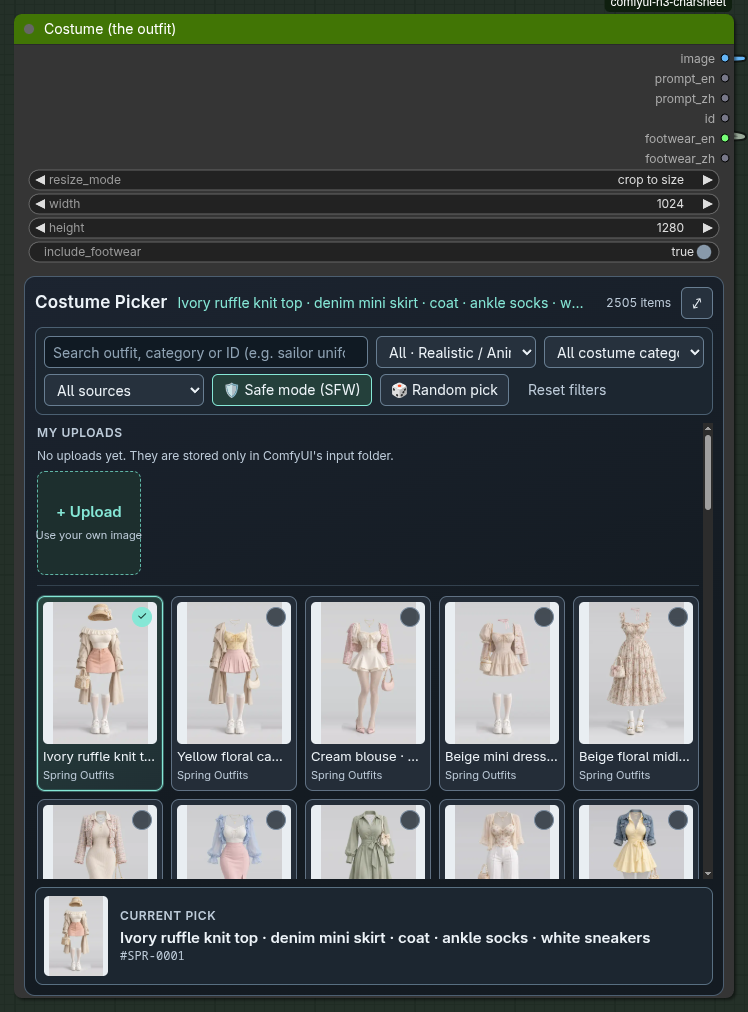
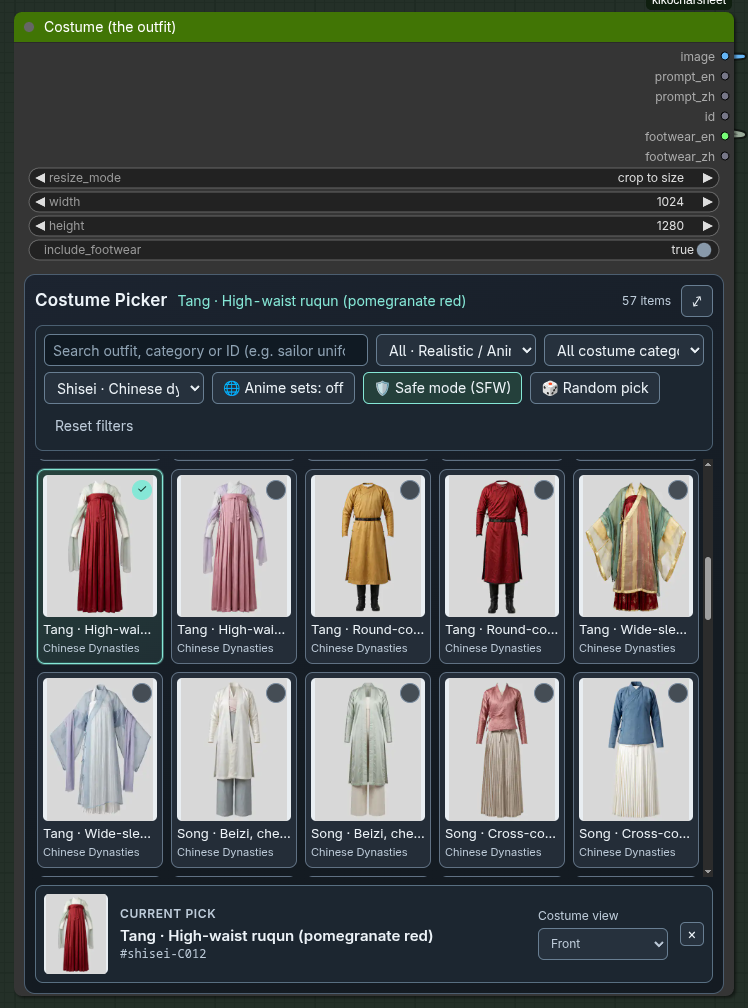
feat: anime costume sets off by default, shown after confirming their terms
The CharaDB and ギア anime sets load from their creators' sites, and
CharaDB's terms forbid use for real people or minors. The Costume Picker
now hides them until the user turns on Anime sets and confirms the terms,
with links to both sites. Saved picks still run. The README explains why.
The costume and workflow screenshots now show only the CC0 Shisei set.

diff --git a/web/panel.js b/web/panel.js
@@ -45,6 +45,7 @@ export function createPickerPanel({ lib, multi = lib === "pose", max = MAX_POSES
   let marked = new Set(); // ids whose cards currently show as selected
   let observer = null;
   let safeMode = true;
+  let showOnline = false; // the anime sets load from their origin sites; off until the user opts in
   let query = "";
   const filters = {};
   let shakeTimer = null;
@@ -85,15 +86,28 @@ export function createPickerPanel({ lib, multi = lib === "pose", max = MAX_POSES
   });
   const lensBtn = lib === "pose" ? el("button", { class: "cs-btn cs-toggle cs-lens", type: "button", title: t("lens.hint") }) : null;
   const sfwBtn = el("button", { class: "cs-btn cs-toggle cs-sfw", type: "button" });
+  const hasOnline = () => items.some((item) => item.online);
+  const onlineBtn = lib === "costume" ? el("button", { class: "cs-btn cs-toggle cs-online", type: "button", hidden: true, title: t("online.hint") }) : null;
   const randomBtn = el("button", { class: "cs-btn", type: "button", text: t("random") });
   const resetBtn = el("button", { class: "cs-btn cs-btn-quiet", type: "button", text: t("reset") });
-  const filterRow = el("div", { class: "cs-filters" }, [search, ...selects.map((s) => s.select), lensBtn, sfwBtn, randomBtn, resetBtn]);
+  const filterRow = el("div", { class: "cs-filters" }, [search, ...selects.map((s) => s.select), lensBtn, onlineBtn, sfwBtn, randomBtn, resetBtn]);
 
   const confirmYes = el("button", { class: "cs-btn cs-btn-danger", type: "button", text: t("sfw.confirmYes") });
   const confirmNo = el("button", { class: "cs-btn cs-btn-primary", type: "button", text: t("sfw.confirmNo") });
   const sfwConfirm = el("div", { class: "cs-confirm", role: "alertdialog", hidden: true }, [
     el("div", { text: t("sfw.confirm") }),
     el("div", { class: "cs-actions" }, [confirmYes, confirmNo]),
+  ]);
+  const onlineYes = el("button", { class: "cs-btn cs-btn-primary", type: "button", text: t("online.confirmYes") });
+  const onlineNo = el("button", { class: "cs-btn", type: "button", text: t("online.confirmNo") });
+  const onlineConfirm = el("div", { class: "cs-confirm", role: "alertdialog", hidden: true }, [
+    el("div", { text: t("online.confirm") }),
+    el("div", { class: "cs-terms" }, [
+      el("span", { text: t("online.terms") }),
+      el("a", { href: "https://charadb-2fi.pages.dev/", target: "_blank", rel: "noopener noreferrer", text: "CharaDB" }),
+      el("a", { href: "https://ai-costume-anime-gallery.pages.dev/", target: "_blank", rel: "noopener noreferrer", text: t("source.giaAnime") }),
+    ]),
+    el("div", { class: "cs-actions" }, [onlineYes, onlineNo]),
   ]);
 
   // ---- Scroll area ----
@@ -137,7 +151,7 @@ export function createPickerPanel({ lib, multi = lib === "pose", max = MAX_POSES
   ]);
   footer.appendChild(multi ? tray.root : pickBox);
 
-  const root = el("div", { class: `cs-panel cs-lib-${lib}`, "data-lib": lib }, [header, filterRow, sfwConfirm, scroll, footer]);
+  const root = el("div", { class: `cs-panel cs-lib-${lib}`, "data-lib": lib }, [header, filterRow, onlineConfirm, sfwConfirm, scroll, footer]);
   const fullscreen = createFullscreen(root, { onChange: updateExpandButton, snapshot: snapshotScroll, restore: restoreScroll });
 
   // Keys pressed inside the panel stay in the panel: ComfyUI's window-level keybindings only skip
@@ -182,6 +196,7 @@ export function createPickerPanel({ lib, multi = lib === "pose", max = MAX_POSES
       itemById = new Map(items.map((item) => [item.id, item]));
       setStatus("");
       populateFilters();
+      renderOnlineButton();
       renderGrid();
       refreshSelectionUI(null);
     } catch (err) {
@@ -191,7 +206,7 @@ export function createPickerPanel({ lib, multi = lib === "pose", max = MAX_POSES
   }
 
   function populateFilters() {
-    const visible = safeMode ? items.filter((item) => !item.nsfw) : items;
+    const visible = filterItems(items, { safeMode, showOnline });
     for (const { spec: f, select } of selects) {
       const values = filterOptions(visible, f.field);
       if (filters[f.field] && !values.includes(filters[f.field])) filters[f.field] = "";
@@ -237,7 +252,7 @@ export function createPickerPanel({ lib, multi = lib === "pose", max = MAX_POSES
 
   function renderGrid() {
     disconnectObserver();
-    filtered = filterItems(items, { query, filters, safeMode, translate: d });
+    filtered = filterItems(items, { query, filters, safeMode, showOnline, translate: d });
     rendered = 0;
     cards.clear();
     marked = new Set();
@@ -391,6 +406,31 @@ export function createPickerPanel({ lib, multi = lib === "pose", max = MAX_POSES
   confirmYes.addEventListener("click", () => setSafeMode(false));
   confirmNo.addEventListener("click", () => {
     sfwConfirm.hidden = true;
+  });
+
+  /** Anime sets switch (costume only), shown when the catalogue has online items. */
+  function renderOnlineButton() {
+    if (!onlineBtn) return;
+    onlineBtn.hidden = !hasOnline();
+    onlineBtn.textContent = showOnline ? t("online.on") : t("online.off");
+    onlineBtn.setAttribute("aria-pressed", showOnline ? "true" : "false");
+  }
+
+  function setShowOnline(on) {
+    showOnline = on;
+    onlineConfirm.hidden = true;
+    renderOnlineButton();
+    populateFilters();
+    renderGrid();
+  }
+
+  onlineBtn?.addEventListener("click", () => {
+    if (showOnline) setShowOnline(false);
+    else onlineConfirm.hidden = !onlineConfirm.hidden;
+  });
+  onlineYes.addEventListener("click", () => setShowOnline(true));
+  onlineNo.addEventListener("click", () => {
+    onlineConfirm.hidden = true;
   });
   lensBtn?.addEventListener("click", () => commit(setWideLens(current, !isWideLens(current))));
 

diff --git a/web/lib/filters.js b/web/lib/filters.js
@@ -1,4 +1,4 @@
-// Pure catalogue filtering (safe mode, dropdown filters, search).
+// Pure catalogue filtering (safe mode, the online sets, dropdown filters, search).
 
 const identity = (value) => value;
 
@@ -13,12 +13,14 @@ function matchesQuery(item, needle, translate) {
  * Filter catalogue items.
  * `filters` is {field: value}; an empty or missing value means "all".
  * `query` matches id, title, `search` and translate(title), case-insensitively.
+ * `showOnline: false` hides items whose images load from their origin site (the anime sets).
  */
-export function filterItems(items, { query = "", filters = {}, safeMode = false, translate = identity } = {}) {
+export function filterItems(items, { query = "", filters = {}, safeMode = false, showOnline = true, translate = identity } = {}) {
   const needle = String(query || "").trim().toLowerCase();
   const active = Object.entries(filters || {}).filter(([, v]) => v !== "" && v != null);
   return items.filter((item) => {
     if (safeMode && item.nsfw) return false;
+    if (!showOnline && item.online) return false;
     if (active.some(([field, value]) => item[field] !== value)) return false;
     return !needle || matchesQuery(item, needle, translate);
   });

diff --git a/web/style.css b/web/style.css
@@ -479,3 +479,6 @@
 @media (prefers-reduced-motion: reduce) {
   .cs-sheet-image { transition: none; }
 }
+
+.cs-terms { display: flex; flex-wrap: wrap; gap: 4px 10px; margin-top: 6px; }
+.cs-terms a { color: inherit; text-decoration: underline; }

diff --git a/README.md b/README.md
@@ -7,7 +7,7 @@ Four ComfyUI nodes that pick references for a character sheet and prepare them f
 | Node | What it does | Needs the download script |
 |---|---|---|
 | Portrait Picker (Char Sheet) | Pick a portrait from the gallery, or one of your own uploads. Outputs the image and a prompt. | Yes: portraits and their names |
-| Costume Picker (Char Sheet) | Pick a costume and a view (front, diag, side, back). Outputs the image and a prompt. | Yes: costumes and their names. The anime costumes also need internet each time |
+| Costume Picker (Char Sheet) | Pick a costume and a view (front, diag, side, back). Outputs the image and a prompt. | Yes: costumes and their names. The anime costume sets are off by default and need internet; see [The anime costume sets](#the-anime-costume-sets) |
 | Pose Picker (Char Sheet) | Pick up to 13 poses, in order. Flip any of them, and switch between normal and wide-lens pose pictures. | Yes, for the pose names and categories only. The pose pictures ship with the pack |
 | Pose Sheet Designer (Char Sheet) | Lays the poses out on one layout image and writes the prompt for it. | Yes, as it reads the same pose list |
 
@@ -17,7 +17,7 @@ All four are in the `CharSheet` category. Each picker shows a browsable panel in
 
 | Portrait Picker | Costume Picker |
 |---|---|
-| ![Portrait Picker node with the gallery panel, an upload tile and the current pick](docs/images/portrait-picker.png) | ![Costume Picker node with filters, safe mode and the footwear switch](docs/images/costume-picker.png) |
+| ![Portrait Picker node with the gallery panel, an upload tile and the current pick](docs/images/portrait-picker.png) | ![Costume Picker node showing the Chinese historical costumes, with filters, the anime sets switch and safe mode](docs/images/costume-picker.png) |
 
 | Pose Picker | Pose Sheet Designer |
 |---|---|
@@ -54,7 +54,7 @@ Some logic is adapted from the gallery project's nodes, which are MIT licensed: 
 
 `example_workflows/kiko-charsheet-one-per-pose-v2.json` is the complete version of the third way: pick a portrait, a costume and any number of poses, queue once, and get one image per pose.
 
-![The one-per-pose workflow: download, controls, the three pickers, prompt, models, generate and save groups](docs/images/workflow-one-per-pose.png)
+![The one-per-pose workflow: download, controls, the three pickers, prompt with trigger words, models with the LoRA loader, generate and save groups](docs/images/workflow-one-per-pose.png)
 
 It adds a size picker, a seed history, a LoRA loader (empty by default; the trigger words of the LoRAs you add go in front of the prompt), a note with instructions, a model download group (off by default; turn it on for the first run) and two VRAM purge steps that unload the text encoder before the image model loads and the image model before decoding. It needs these packs as well as this one: [ComfyUI-KikoTools](https://github.com/ComfyAssets/ComfyUI-KikoTools), [LoRA Manager](https://github.com/willmiao/ComfyUI-Lora-Manager), [KJNodes](https://github.com/kijai/ComfyUI-KJNodes) and [rgthree-comfy](https://github.com/rgthree/rgthree-comfy). The three `charsheet-*` workflows are the plain versions and need only this pack and ComfyUI's MiniMax H3 nodes.
 
@@ -71,6 +71,18 @@ The designer always outputs three images, filled in the order character, layout,
 The Costume Picker has an `include_footwear` switch, on by default. It adds an instruction to the costume's prompt text: wear the shoes shown in the outfit picture, or, when off, leave the shoes out. It takes effect where that text is used: connect the picker's `prompt_en` to the Pose Sheet Designer's `outfit_prompt`. The `footwear_en` and `footwear_zh` outputs hold the footwear instruction alone, for prompts you write yourself; the one-per-pose workflow uses `footwear_en`.
 
 `style` is one sentence added near the end of the prompt. The default asks for a photorealistic studio photograph. Replace it for another look (for example an illustration style), or clear it to leave the style to the model.
+
+## The anime costume sets
+
+The Costume Picker lists two anime costume sets, CharaDB (by たき AI) and ギア's anime gallery, about 1,760 outfits. They are **off by default**. The **🌐 Anime sets** button in the Costume Picker turns them on for that panel, after you confirm the terms below. They are off again each time ComfyUI loads.
+
+Why they are off by default:
+
+- **CharaDB's terms forbid what this pack makes easy.** Its images are for reference only: no redistribution, and no use for real people or minors. This pack puts an outfit on a portrait, and the portrait can be a photo of a real person you upload.
+- **The images are not downloaded, they load from the creators' sites.** Neither set is part of the download script, so every thumbnail you browse is a request to their site, which never agreed to serve this pack.
+- **ギア's anime gallery has no stated licence.** The gallery project says to follow the author's own terms.
+
+If you turn them on, follow the creators' terms, and don't download, mirror or share their images. A saved workflow that already picked an anime costume still runs with the sets off; only the gallery list hides them.
 
 ## Portrait uploads
 

diff --git a/docs/LICENSES-AND-SETUP.md b/docs/LICENSES-AND-SETUP.md
@@ -32,7 +32,7 @@ What is not known: the exact licence of the realistic-costume images, and whethe
 
 ## Hotlinked images
 
-The CharaDB and anime costume images (about 1,760 entries) are not copied by the setup script. The costume picker loads them from the origin sites, so they need an internet connection. Do not download, mirror or redistribute them, and do not commit them. If an origin site goes offline, those thumbnails and images stop working.
+The CharaDB and anime costume images (about 1,760 entries) are not copied by the setup script. The costume picker loads them from the origin sites, so they need an internet connection. Both sets are hidden by default; the Costume Picker's **🌐 Anime sets** button shows them after you confirm their terms. See the README's *The anime costume sets*. Do not download, mirror or redistribute them, and do not commit them. If an origin site goes offline, those thumbnails and images stop working.
 
 Only addresses listed exactly in the catalogue are fetched, with size and time limits. The picker does not fetch arbitrary URLs.
 
